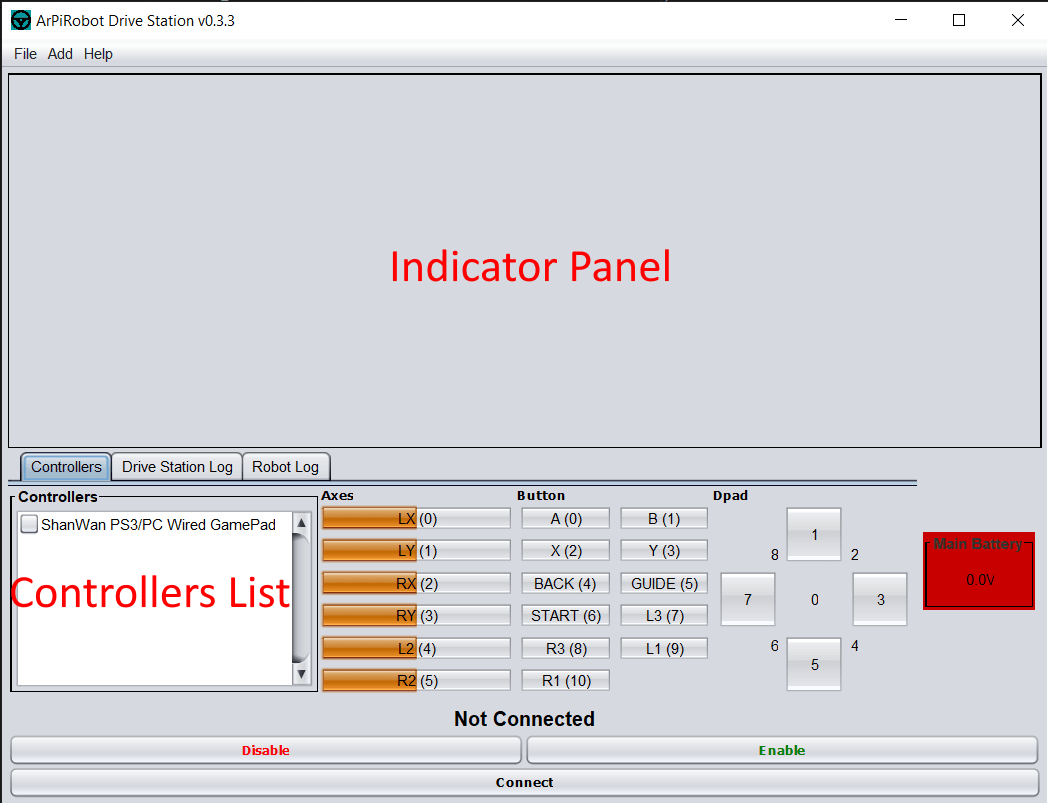
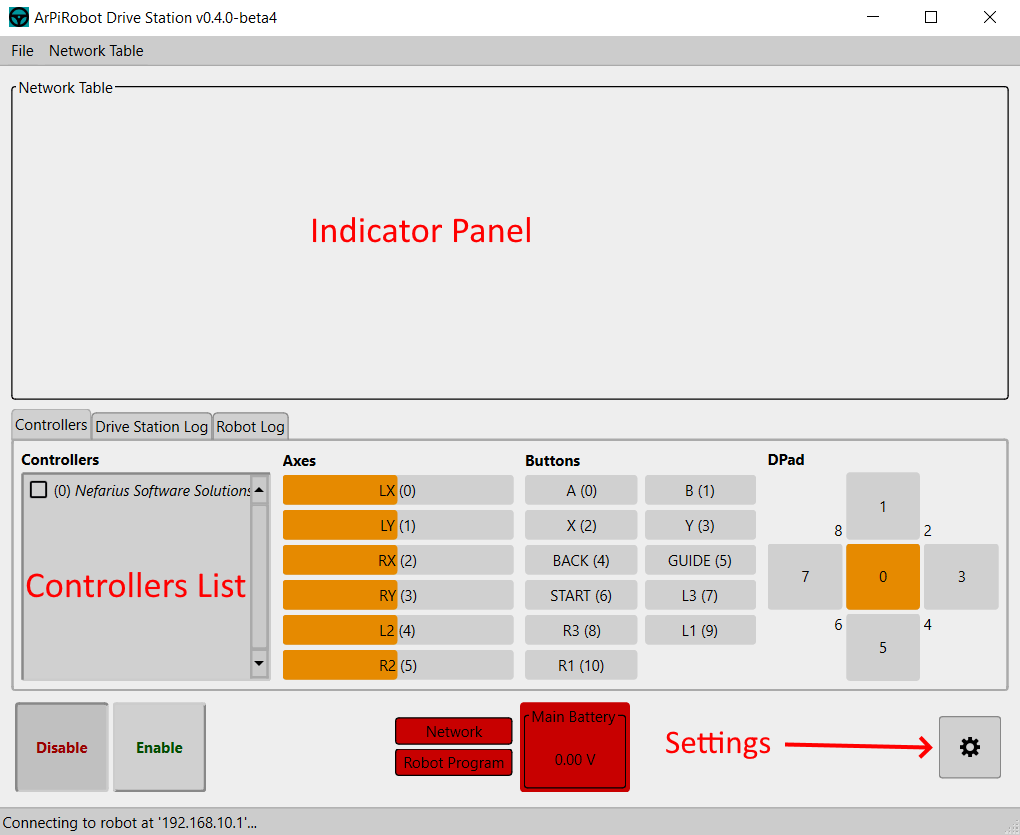
Updated drive station manual

Changed region(s): [[0.0, 0.0, 1.0, 0.9963], [0.3039, 0.2491, 0.6382, 0.3736], [0.7294, 0.5293, 0.7902, 0.5604]]

diff --git a/docs/ref/manuals/drive_station.md b/docs/ref/manuals/drive_station.md
@@ -1,10 +1,8 @@
 # Drive Station Manual
 
-*NOTICE: THIS MANUAL WAS WRITTEN FOR THE OLD JAVA DRIVE STATION. THE NEWER DRIVE STATION (V0.4.0+) IS REWRITTEN IN PYTHON USING QT. SOME OF THIS INFORMATION DOES NOT APPLY!!!*
-
 The ArPiRobot Drive Station is the program for your computer (Windows, macOS, Linux) that is used to control the robot. Its primary function is to enable/disable the robot and send data from a gamepad connected to your computer to the robot via WiFi.
 
-![Drive Station Screenshot](../../img/drive_station.png){: style="height:300px"}
+![Drive Station Screenshot](../../img/drive_station.png){: style="height:400px"}
 
 ## Uses / Features
 - Connect to a running robot program over the Raspberry Pi's WiFi network
@@ -18,41 +16,39 @@ The ArPiRobot Drive Station is the program for your computer (Windows, macOS, Li
 - Save and load configurations of shown NetworkTable values and their sizes / positions on the screen
 
 ## Installing and Running
-The Drive Station is written in Java (at the time of writing this it should work with Java 1.8 or newer), so you will need to make sure you have a Java runtime installed before using the Drive Station. Sometimes, a Java runtime is included in the package and sometimes it is not.
 
 The Drive Station is built and available for download in the following formats
 
-- `.exe` file - This is a windows installer that will install the Drive Station along with a Java runtime. It will also setup shortcuts in the start menu and configure an uninstaller for the Drive Station accessible through the Windows Control Panel.
-- `.app.zip` - This is a zip file containing a macOS app for the Drive Station. After extracting the zip you can drag the `.app` file to your Mac's `Applications` folder so the Drive Station will show up in Launchpad. This app includes a java runtime used by the Drive Station.
-- `.deb` file - This is a package that can be used to install the Drive Station on Ubuntu Linux (it should also work on other debian based systems using `.deb` packages). It depends on the `default-jre` for whatever distribution you are installing it on so you should not need to do anything special to install a Java runtime.
-- `.jar` file - This is an executable Java Archive file. This can be run on any supported<sup>&ast;</sup> platform, but you must install java separately first. Usually after installing java you can run the Drive Station just by double clicking on the `.jar` file, however if that does not work you may need to right click it and choose to open it with "Java" or "Java Runtime". If all else fails make sure the `java` command is in your path and run the following command in a terminal or command prompt: `java -jar /path/to/jar_file.jar`. Replace the path and name of file as appropriate.
+- `.exe` file - This is a windows installer that will install the Drive Station. Supports 64-bit x86 Windows (x86_64).
+- `.app.zip` - This is a zip file containing a macOS app for the Drive Station. After extracting the zip you can drag the `.app` file to your Mac's `Applications` folder so the Drive Station will show up in Launchpad. Supports 64-bit x86 macOS (x86_64).
+- `.deb` file - This is a package that can be used to install the Drive Station on Ubuntu Linux (it should also work on other debian based systems using `.deb` packages). It depends on the required packages. Supports any architecture where PySide6 is available.
+- `.tar.gz` file - This is a package for any linux distribution. Python3, pip, and venv must be installed from system packages. Then, extract the package and run `install.sh`. Supports any architecture where PySide6 is available. 
 
-<sup>&ast;</sup>Supported platforms are 32-bit and 64-bit Windows (7 or newer), 64-bit macOS, 64-bit (x86_64) Linux. Other platforms will require a custom build of the native library used by the Drive Station to manage gamepads.
 
 ## Connecting to the Robot
-Before attempting to connect to the robot you will need to make sure your computer is connected to the WiFi network created by the robot. You will also generally need to make sure you are disconnected from other networks (including ethernet connections).
+Before attempting to connect to the robot you will need to make sure your computer is connected to the WiFi network created by the robot. It may also be necessary to disconnect from other networks (such as ethernet).
 
-Once your computer is connected to the robot's WiFi click the "Connect" button at the bottom of the drive station window to connect to the running robot program. If there is no robot program running the drive station will not connect and you will need to use the [Deploy Tool](./deploy_tool.md) to put a program on the robot first. Once connected the "Connect" button will become a "Disconnect" button and can be clicked to disconnect the Drive Station from the running robot program.
+Once your computer is connected to the robot's WiFi the drive station will automatically connect. When this occurs the "Network" indicator will become green. If there is a program running on the robot, the "Robot Program" indicator will turn green too (indicating the drive station is fully connected). However, if no program is running one must be started before the drive station will fully connect (the drive station connects to the program running on the robot, not to the robot itself).
 
 Only one Drive Station can be connected to the robot at a time.
 
-If you are not using the robot's WiFi network or have modified the network configuration on the robot such that the robot has a non-default IP address you can change the IP address used when connecting to the robot in the Drive Station's settings (`File > Settings`). Hostnames can also be used and will be resolved using DNS.
+If you are not using the robot's WiFi network or have modified the network configuration on the robot such that the robot has a non-default IP address you can change the IP address used when connecting to the robot in the Drive Station's settings (settings icon in bottom right). Hostnames can also be used and will be resolved using DNS.
 
 ## Enabling and Disabling the Robot
-Above the connect button there are two other buttons: one labeled "Disable" and another labeled "Enable". These disable and enable the robot respectively. If the robot is already in the matching state the robot will just ignore the command, however you will still be able to click the button in the Drive Station.
+In the bottom left corner of the drive station window, there are two buttons: one labeled "Disable" and another labeled "Enable". These disable and enable the robot respectively.
 
-Above the Enable and Disable buttons there is a label that indicates the robot's state. It may read "Enabled", "Disabled", or "Not Connected" (if the Drive Station is not connected to the robot). It could also read "Unknown" if connected to the robot, but it is unknown whether the robot is enabled or disabled (this can happen when using older versions of the PythonLib or if network table issues occur).
+The robot's current state will be indicated by "lowering" one of these buttons. The lowered button matches the state of the robot (ie if the "Disable" button is lowered the robot is currently disabled).
 
 ## Selecting and Using Gamepads
-When the "Controllers" in the bottom half of the Drive Station is selected you will see on the left side of the screen a section labeled "Controllers". Any gamepads connected to your PC will be listed in this section with their name beside a checkbox. 
+When the "Controllers" tab in the bottom half of the Drive Station is selected you will see on the left side of the screen a section labeled "Controllers". Any gamepads connected to your PC will be listed in this section with their name beside a checkbox. 
 
-You can drag the gamepads in the list to reorder them. The topmost gamepad will be gamepad 0. The next one will be gamepad 1, then gamepad 2, and so on. 
+You can drag the gamepads in the list to reorder them. The topmost gamepad will be gamepad 0. The next one will be gamepad 1, then gamepad 2, and so on. Each gamepad's number is indicated before it's name in parenthesis.
 
 To "enable" a gamepad so that the drive station sends data from it to the robot it is connected to you will need to check the checkbox beside the gamepad's name. The Drive Station will send the data from each checked gamepad to the robot. Uncheck any gamepad to stop sending its data to the robot. Whether or not gamepads are checked does not change the number order of the gamepads. For example, if the top gamepad is unchecked, but the next one is checked the checked gamepad will still be gamepad number 1 and the robot will not receive data from gamepad 0 (even though it does receive data for gamepad 1).
 
-If a gamepad is disconnected from the computer the Drive Station will uncheck it in the list and it will become "greyed out". It will keeps its position in the controller list so other gamepad's numbers do not change. You will not be able to check a "greyed out" gamepad. If a new gamepad with the same name is connected the gamepad will no longer be greyed out and you will be able to check its checkbox again to send data for it to the robot.
+If a gamepad is disconnected from the computer the Drive Station will remove it from the list. This can change the number of other controllers. As such, the drive station automatically disables the robot when this occurs.
 
-Beside the gamepad list there are a set of indicators that show the values of the axes, buttons, and dpad of the selected gamepad. To "select" a gamepad and see it's controls values in this section click on its name in the controller list. It will have a different background color to indicate that it is the selected controller.
+Beside the gamepad list there are a set of indicators that show the values of the axes, buttons, and dpad of the selected gamepad. To "select" a gamepad and see it's controls values in this section click on its name in the controller list. It will have a different background color to indicate that it is the selected controller. While selected, any action performed with the gamepad will be shown by the axis, button, or dpad indicators.
 
 ## Reading Logs
 There are two logs visible from the Drive Station: the robot log and the drive station log. The Drive Station log will show errors, warnings, and other messages from the Drive Station, while the robot log will show messages received from the robot (this only displays messages from the robot *after* the drive station connects).
@@ -64,10 +60,10 @@ There are four log levels. The lower the level the more detailed the information
 3. Warning
 4. Error
 
-By default only info and higher level messages are shown, but this can be changed in the Drive Station's settings (`File > Settings`). The setting is called "Displayed Log Level". The selected level and any higher levels will be shown. By default Info is selected, which means that Info, Warning, and Error messages will be shown, but not Debug messages. When the displayed log level is changed the drive station will change the displayed portions of the logs accordingly. All messages received since connecting to the robot will be shown (even if they weren't before). This means that if you switch form info to debug you will see any debug messages since you last connected to the robot, even though they were hidden before. It does **not** only affect messages received after changing the setting.
+All four levels of log messages will be shown in the drive station log windows.
 
 ## Main Battery Voltage
-If a voltage monitor device is designated as the main voltage monitor on the robot, the Drive Station will display the voltage as determined by the sensor in the lower right hand corner of the Drive Station window. The battery voltage indicator will change color based on the percentage range of the voltage read compared to the nominal (as printed on label) battery voltage. The main battery voltage can be set in the Drive Station settings (`File > Settings`). This voltage should be the nominal voltage of the batteries in use. For example, with 5 AA batteries at 1.5V each the "Main Battery Voltage" should be 5 * 1.5 = 7.5. Most batteries exceed this value when fully charged or new (in the case of non-rechargeable batteries).
+If a voltage monitor device is designated as the main voltage monitor on the robot, the Drive Station will display the voltage as determined by the sensor in the lower center of the Drive Station window. The battery voltage indicator will change color based on the percentage range of the voltage read compared to the nominal (as printed on label) battery voltage. The main battery voltage can be set in the Drive Station settings. This voltage should be the nominal voltage of the batteries in use. For example, with 5 AA batteries at 1.5V each the "Main Battery Voltage" should be 5 * 1.5 = 7.5. Most batteries exceed this value when fully charged or new (in the case of non-rechargeable batteries).
 
 The colors of the indicator by percentage level are as follows
 
@@ -84,28 +80,25 @@ An indicator shows the value of a key / value pair from the Network Table. You c
 - By creating a new indicator (and if it does not exist a corresponding key / value pair in the Network Table)
 - By adding an indicator for existing key / value pairs received from the robot or already known to the drive station
 
-The top portion of the drive station is the indicators panel. In this boxed in area any indicators you add are shown and can be resized and moved around any way you want as long as the indicators panel is editable (`File > Editable`).
+The top portion of the drive station is the indicators panel. In this boxed in area any indicators you add are shown and can be resized and moved around any way you want.
 
-To create a new indicator click `Add > Network Table Indicator`. Then enter a key name in the dialog and click OK. You can only have one indicator for any key / value pair.
+To create a new indicator click `Network Table > Add New`. Then enter a key name in the dialog and click OK. You can only have one indicator for any key / value pair.
 
-To add an indicator for an existing key / value pair select an existing key under `Add > Existing Keys`.
+To add an indicator for an existing key / value pair select an existing key under `Network Table > Add From Robot`. This menu will display any keys that the robot program has previously written.
 
-Once an indicator is on the panel it can be deleted (removed from the panel, but not the Network Table) by right clicking it and choosing delete. You can also edit the value of an indicator (and change the corresponding value on the Network Table) by right clicking and making the indicator editable. You will then be able to type values in the text field next to the indicator's label. Uncheck "Editable" in the right click menu to disable editing an indicator. Setting the value of an indicator is an easy way to send small amounts of information to the robot.
+Once an indicator is on the panel it can be deleted (removed from the panel, but not the Network Table) by right clicking it and choosing delete. Additionally, all indicators can be removed from the indicators panel by using the `Network Table > Clear Indicators` option. 
 
-To resize an indicator click and drag any of the small squares at the edges and corners of the indicator. To move it click and drag the indicator's label (showing the key). Be aware that positions are "absolute" meaning if you resize the Drive Station window it is possible to move an indicator off the screen. For this reason it is recommended to keep the Drive Station the same size at all times. The two easy ways to do this are to use the default size or to always maximize the window (there is a setting that will start the Drive Station maximized in `File > Settings`).
+You can also edit the value of an indicator (and change the corresponding value on the Network Table) by right clicking and making the indicator editable. You will then be able to type values in the text field next to the indicator's label. Uncheck "Editable" in the right click menu to disable editing an indicator. Setting the value of an indicator is an easy way to send small amounts of information to the robot.
 
-Several menu options in the `File` menu are used with the indicator panel.
+To resize an indicator click the label. The drag the left or right edges of the box drawn around it to resize the indicator. To move the indicator, click and drag the indicator's label.
 
-- `Clear` will remove all indicators form the panel
-- `Open` will open a saved set of indicators and restore their positions/sizes on the indicators panel
-- `Save` will save a set of indicators and their positions/sizes to a file to be loaded later (even after restarting the Drive Station). It will use the same file name as previously used, unless it has not saved or loaded before in which case it will perform a `Save As`.
-- `Save As` will do the same thing as save, but will not use the same file name as last used.
+Be aware that positions in the indicators panel are "absolute" meaning if you resize the Drive Station window it is possible to move an indicator off the screen. For this reason it is recommended to keep the Drive Station the same size at all times. The two easy ways to do this are to use the default size or to always maximize the window.
+
+Finally, note that the displayed indicators (including positions and sizes) are saved when the drive station is closed and restored the next time it is opened.
+
 
 ## About Menu
-Can be accessed by clicking `Help > About`. An about dialog will open up with information about the license of the Drive Station and the other software it makes use of. In the title bar of the dialog (as with the title bar of the main Drive Station window) the version number of the Drive Station is shown.
+Can be accessed by clicking `File > About`. An about dialog will open up with information about the license of the Drive Station and the other software it makes use of.
 
 ## Drive Station Themes
-Java applications can have a variety of themes. Sometimes apps will try to emulate the theme of the operating system (windows, macOS, Linux, etc) so the app looks like other apps on the computer. Sometimes they will use a custom theme so they are the same across platforms. By default the Drive Station uses the Nimbus theme on all platforms. In the settings dialog (`File > Settings`) you can change this to a different universal theme (Metal) or to the system theme (which will change by platform).
-
-## Closing the Drive Station
-When closing the Drive Station you will see a dialog asking for confirmation before closing.
+The drive station supports two themes: a light theme and a dark theme. The theme can be selected in the settings dialog. Additionally, there is an option to increase font sizes when using either theme.
